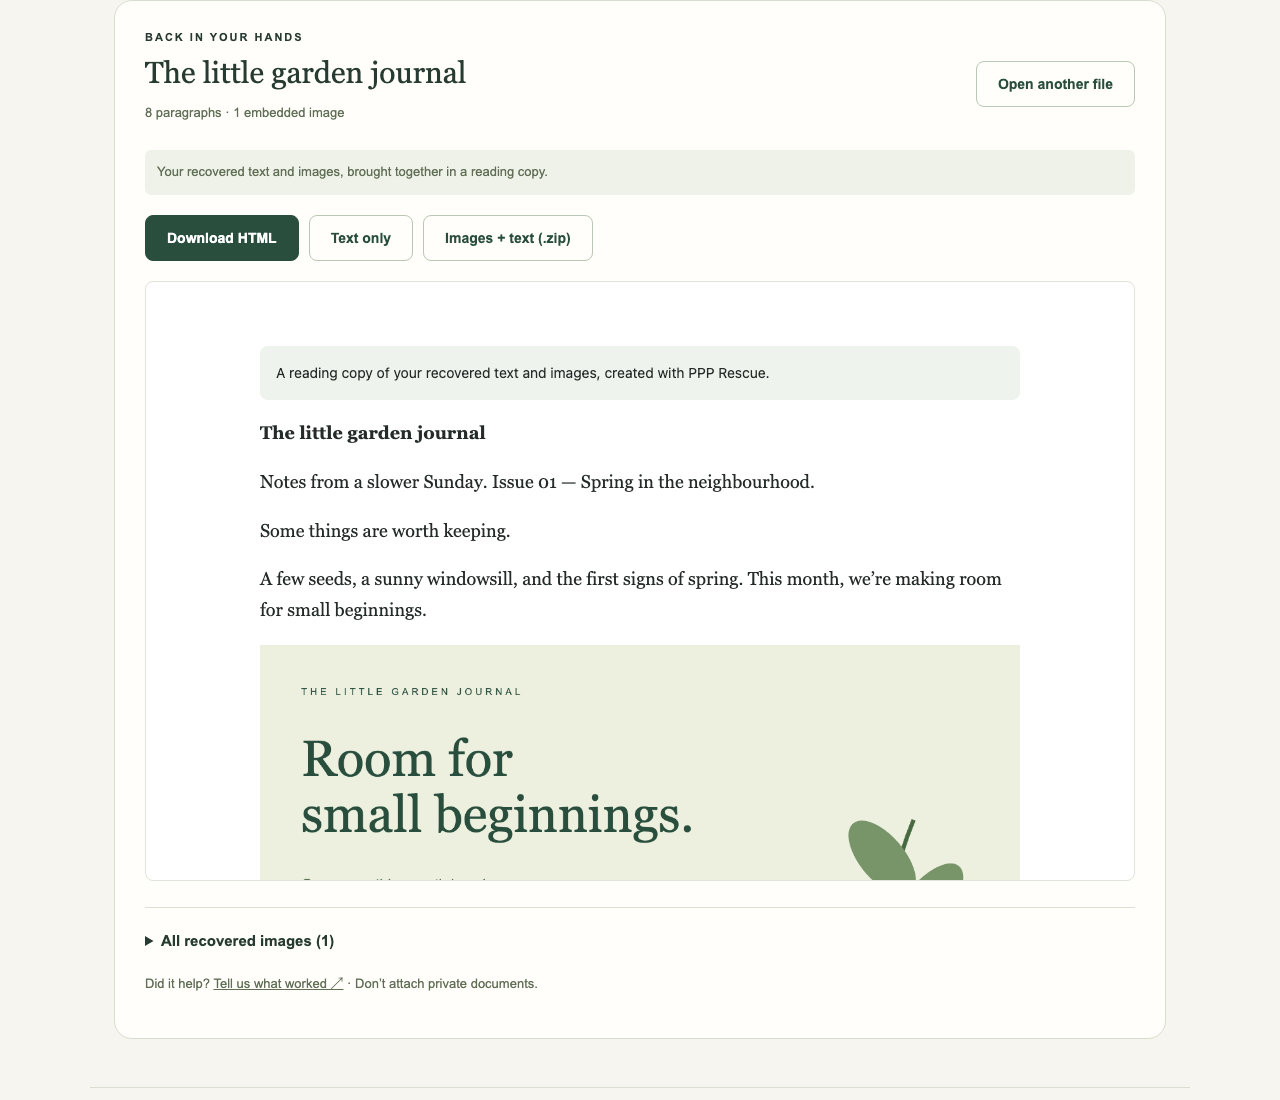
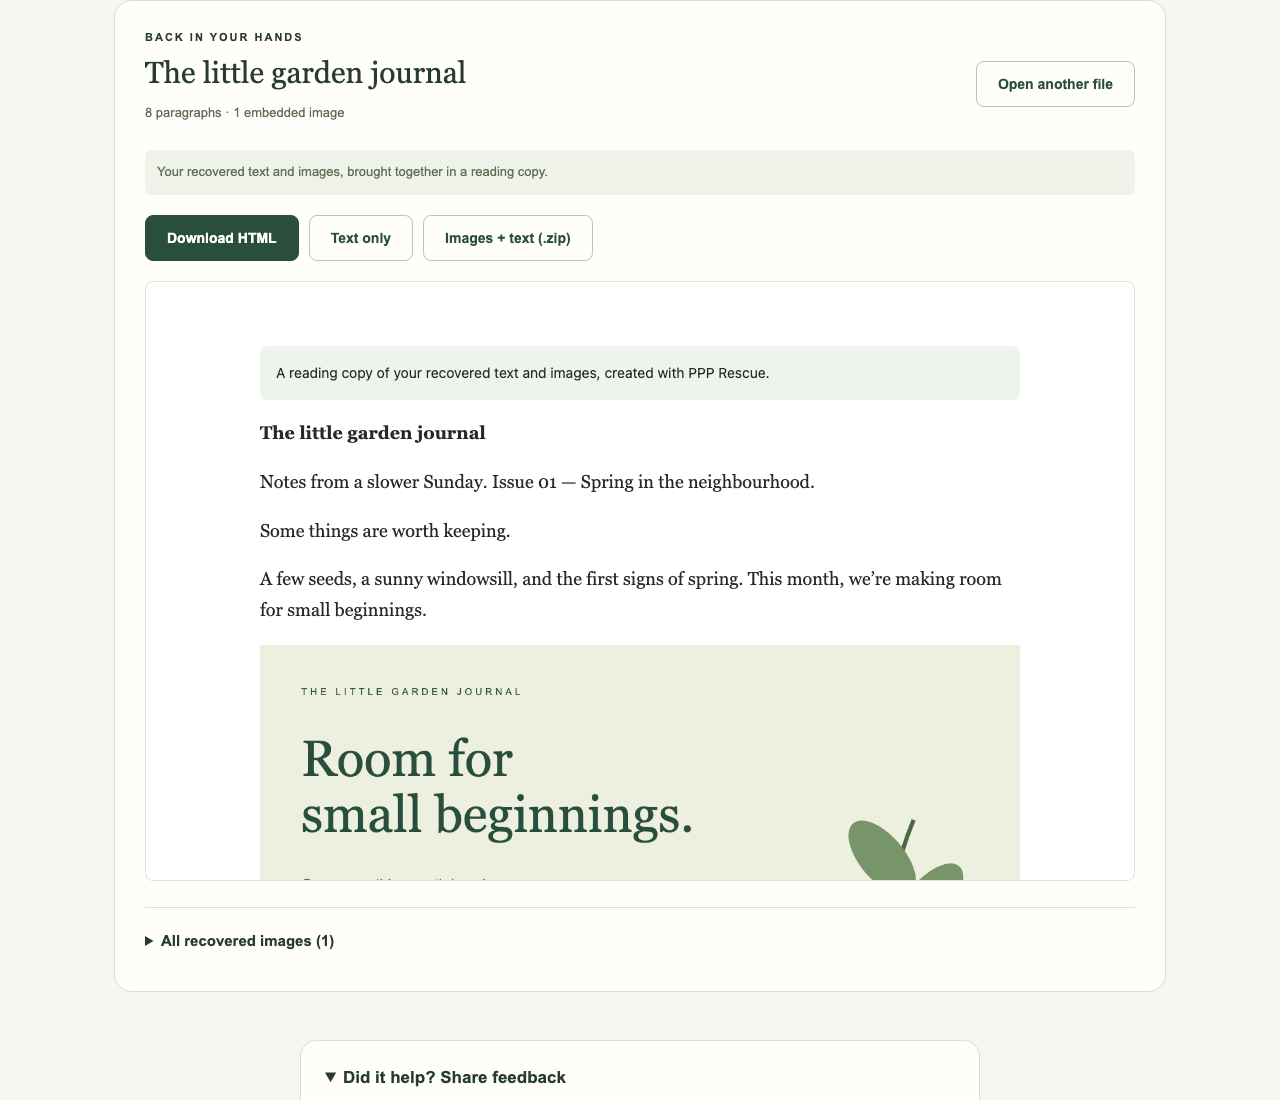
Add private, account-free feedback delivered by email

Changed region(s): [[0.25, 0.9582, 0.4375, 0.9891], [0.1562, 0.8655, 0.2188, 0.8964], [0.3438, 0.8655, 0.375, 0.8964]]

diff --git a/index.html b/index.html
@@ -5,13 +5,22 @@
 <div class="tool" id="drop"><div class="file-icon" aria-hidden="true">.ppp</div><h2>Let’s open that document.</h2><p>Drop a PagePlus file here, or choose one below.</p><label class="primary" for="file">Choose .ppp file <span aria-hidden="true">↗</span></label><input type="file" id="file" accept=".ppp" aria-label="Choose a PagePlus file"><button class="demo" id="demo">Just looking? Try the demo →</button><div class="privacy">Free · No uploads · No account</div></div>
 <p class="compat">Open a file. Rediscover your work. Keep what matters.</p><div class="processing"><progress id="progress" aria-label="Processing document" hidden></progress><button id="cancel" class="secondary" hidden>Cancel</button></div><p id="status" tabindex="-1" role="status" aria-live="polite"></p>
 </section>
-<section id="result" hidden aria-labelledby="result-title"><div class="result-head"><div><div class="eyebrow">BACK IN YOUR HANDS</div><h2 id="result-title" tabindex="-1">Your recovered document</h2><p id="counts"></p></div><button id="reset" class="secondary">Open another file</button></div><p class="notice">Your recovered text and images, brought together in a reading copy.</p><ul id="warnings"></ul><div class="downloads"><button class="primary" id="html">Download HTML</button><button class="secondary" id="txt">Text only</button><button class="secondary" id="zip">Images + text (.zip)</button></div><iframe id="preview" title="Recovered document preview" sandbox=""></iframe><details id="gallery" class="gallery" hidden><summary id="gallery-title">Recovered images</summary><div id="gallery-items" class="image-grid"></div></details><p class="feedback">Did it help? <a href="https://github.com/Dryxio/ppp-rescue/issues/new?template=feedback.yml">Tell us what worked ↗</a> · Don’t attach private documents.</p></section>
+<section id="result" hidden aria-labelledby="result-title"><div class="result-head"><div><div class="eyebrow">BACK IN YOUR HANDS</div><h2 id="result-title" tabindex="-1">Your recovered document</h2><p id="counts"></p></div><button id="reset" class="secondary">Open another file</button></div><p class="notice">Your recovered text and images, brought together in a reading copy.</p><ul id="warnings"></ul><div class="downloads"><button class="primary" id="html">Download HTML</button><button class="secondary" id="txt">Text only</button><button class="secondary" id="zip">Images + text (.zip)</button></div><iframe id="preview" title="Recovered document preview" sandbox=""></iframe><details id="gallery" class="gallery" hidden><summary id="gallery-title">Recovered images</summary><div id="gallery-items" class="image-grid"></div></details></section>
+<details id="feedback" class="feedback-panel"><summary>Did it help? Share feedback</summary>
+<form id="feedback-form">
+<fieldset><legend>Did you recover what you needed?</legend><div class="feedback-options"><label><input type="radio" name="rating" value="Yes" required> Yes</label><label><input type="radio" name="rating" value="Partly"> Partly</label><label><input type="radio" name="rating" value="Not yet"> Not yet</label></div></fieldset>
+<label for="feedback-message">Anything to add? <span>(optional)</span></label><textarea id="feedback-message" name="message" rows="3" maxlength="3000" placeholder="What worked, or what could be better?"></textarea>
+<label for="feedback-email">Email for a reply <span>(optional)</span></label><input id="feedback-email" name="email" type="email" maxlength="254" autocomplete="email" placeholder="you@example.com">
+<div class="feedback-trap" aria-hidden="true"><label for="feedback-website">Leave this empty</label><input id="feedback-website" type="text" name="website" tabindex="-1" autocomplete="off"></div>
+<p class="feedback-privacy">Only your answers are sent. Your file and its contents stay on your device.</p><button class="primary" id="feedback-send" type="submit">Send feedback</button>
+</form><p id="feedback-status" role="status" aria-live="polite" tabindex="-1"></p><p class="feedback-meta">Prefer email? <a href="mailto:mrdryxio@gmail.com?subject=RecoverPPP%20feedback">mrdryxio@gmail.com</a> · Delivered by <a href="https://formsubmit.co/privacy.pdf" target="_blank" rel="noopener noreferrer">FormSubmit</a>. Please don’t include private document content.</p>
+</details>
 <section class="steps" aria-label="How it works"><article><span>01 / OPEN</span><h2>Find your .ppp file.</h2><p>Newsletters, brochures, family histories. Start with the file you already have.</p></article><article><span>02 / RECOVER</span><h2>See what’s inside.</h2><p>Read your recovered text and browse the image gallery.</p></article><article><span>03 / KEEP</span><h2>Make it yours again.</h2><p>Save a reading copy, copy the text or download images for your next project.</p></article></section>
 <section class="faq"><div><div class="eyebrow">A FEW GOOD QUESTIONS</div><h2>Old format.<br>Simple answers.</h2></div><div>
 <details><summary>What is a .ppp file?</summary><p>PagePlus saves publications such as newsletters, brochures and books as .ppp files.</p></details>
 <details><summary>Can I open PagePlus files without PagePlus?</summary><p>Yes. Choose your file to recover its text and images directly in your browser. No PagePlus installation needed. See <a href="https://github.com/Dryxio/ppp-rescue/blob/main/docs/compatibility.md">file compatibility</a>.</p></details>
 <details><summary>Can I convert PPP to PDF or Affinity Publisher?</summary><p>Download HTML and choose Print → Save as PDF in your browser for a reading copy. You can also reuse the recovered text and images in Affinity Publisher. Exports do not preserve the original page layout or create editable Affinity documents.</p></details>
-<details><summary>Does my document leave my computer?</summary><p>No. Extraction happens in your browser. We do not upload or store your document, and there are no analytics or advertising scripts. Our hosting provider receives normal website request information when you visit.</p></details>
+<details><summary>Does my document leave my computer?</summary><p>No. Extraction happens in your browser. We do not upload or store your document, and there are no analytics or advertising scripts. Our hosting provider receives normal website request information when you visit. If you choose to send feedback, only the answers you enter are sent through FormSubmit to our inbox; your document is never attached.</p></details>
 <details><summary>Which PagePlus files can I open?</summary><p>PPP Rescue reads ZIP/XML publications, tested with PagePlus X7–X9. When the tool detects missing content, a note appears with your result. <a href="https://github.com/Dryxio/ppp-rescue/blob/main/docs/compatibility.md">View compatibility details ↗</a></p></details>
 <details><summary>Is this free?</summary><p>Yes. PPP Rescue is a free, open-source community project, released under the MIT license. No signup, subscriptions or AI services.</p></details>
-</div></section></main><footer><a class="brand" href="/">PPP Rescue</a><span>Made to give old work a new life.</span><a href="https://github.com/Dryxio/ppp-rescue">Code & feedback ↗</a><p>Independent project. Not affiliated with Serif or Affinity.</p></footer><script type="module" src="/src/main.js"></script></body></html>
+</div></section></main><footer><a class="brand" href="/">PPP Rescue</a><span>Made to give old work a new life.</span><a href="#feedback">Feedback</a><a href="https://github.com/Dryxio/ppp-rescue">Source code ↗</a><p>Independent project. Not affiliated with Serif or Affinity.</p></footer><script type="module" src="/src/main.js"></script></body></html>

diff --git a/tests/feedback.spec.js b/tests/feedback.spec.js
@@ -1,0 +1,18 @@
+import {test,expect} from '@playwright/test';
+import {zipSync,strToU8} from 'fflate';
+const endpoint='https://formsubmit.co/ajax/mrdryxio@gmail.com';
+test('feedback sends explicit answers only, never recovery data',async({page})=>{
+ const sent=[];await page.route(endpoint,async route=>{sent.push(route.request().postDataJSON());await route.fulfill({json:{success:'true'}});});
+ await page.goto('/');const privateText='PRIVATE_DOCUMENT_SENTINEL_471';const file=zipSync({'summary.xml':strToU8('<x><Summary Title="PRIVATE_TITLE_471"/></x>'),'story/1.xml':strToU8('<x><p>'+privateText+'</p></x>')});await page.locator('#file').setInputFiles({name:'PRIVATE_FILENAME_471.ppp',mimeType:'application/octet-stream',buffer:Buffer.from(file)});await expect(page.locator('#result')).toBeVisible();expect(sent).toHaveLength(0);
+ await page.getByLabel('Partly',{exact:true}).check();await page.locator('#feedback-message').fill('The text helped.');await page.locator('#feedback-email').fill('reader@example.com');await page.locator('#feedback-send').click();await expect(page.locator('#feedback-status')).toContainText('Thank you!');
+ expect(sent).toEqual([{rating:'Partly',message:'The text helped.',email:'reader@example.com',_subject:'RecoverPPP feedback',_template:'table',_url:'https://recoverppp.com/',_honey:''}]);expect(JSON.stringify(sent)).not.toContain('PRIVATE_');await expect(page.locator('#feedback-form')).toBeHidden();await expect(page.locator('#feedback-status')).toBeFocused();await expect(page.frameLocator('#preview').locator('p')).toHaveText(privateText);
+});
+test('rating alone works without an email, message or account',async({page})=>{
+ let payload;await page.route(endpoint,async route=>{payload=route.request().postDataJSON();await route.fulfill({json:{success:true}});});await page.goto('/#feedback');await expect(page.locator('#feedback-send')).toBeVisible();await page.getByLabel('Yes',{exact:true}).check();await page.locator('#feedback-send').click();await expect(page.locator('#feedback-status')).toContainText('Thank you!');expect(payload.rating).toBe('Yes');expect(payload.message).toBe('');expect(payload).not.toHaveProperty('email');
+});
+test('failed submissions retain the message and can be retried',async({page})=>{
+ let tries=0;await page.route(endpoint,async route=>{tries++;await route.fulfill({status:tries===1?503:200,json:tries===1?{success:false}:{success:'true'}});});await page.goto('/#feedback');await page.getByLabel('Not yet',{exact:true}).check();await page.locator('#feedback-message').fill('Please help.');await page.locator('#feedback-send').click();await expect(page.locator('#feedback-status')).toContainText('couldn’t confirm delivery');await expect(page.locator('#feedback-message')).toHaveValue('Please help.');await expect(page.locator('#feedback-send')).toBeEnabled();await page.locator('#feedback-send').click();await expect(page.locator('#feedback-status')).toContainText('Thank you!');expect(tries).toBe(2);
+});
+test('feedback remains usable on narrow screens and requires a rating',async({page})=>{
+ let sent=false;await page.route(endpoint,async route=>{sent=true;await route.fulfill({json:{success:true}});});await page.setViewportSize({width:375,height:812});await page.goto('/#feedback');await page.locator('#feedback-send').click();expect(sent).toBe(false);expect(await page.evaluate(()=>document.documentElement.scrollWidth<=innerWidth)).toBe(true);await expect(page.locator('#feedback-send')).toBeEnabled();
+});

diff --git a/src/main.js b/src/main.js
@@ -1,3 +1,4 @@
+import {showFeedback} from './feedback.js';
 import {imageType} from './images.js';
 const $=id=>document.getElementById(id);
 let current=null,worker=null,timer=null,busy=false,imageUrls=[],generation=0;
@@ -7,7 +8,7 @@ function status(text,error=false){$('status').textContent=text;$('status').class
 function clearImages(){for(const url of imageUrls)URL.revokeObjectURL(url);imageUrls=[];$('gallery-items').replaceChildren();$('gallery').hidden=true;$('gallery').open=false;}
 function stop(){generation++;worker?.terminate();worker=null;clearTimeout(timer);timer=null;setBusy(false);}
 function clear(){clearImages();current=null;$('result').hidden=true;$('preview').srcdoc='';$('file').value='';}
-function fail(message){stop();clear();status(message,true);}
+function fail(message){stop();clear();status(message,true);showFeedback();}
 function save(bytes,name,type){const url=URL.createObjectURL(new Blob([bytes],{type}));const a=document.createElement('a');a.href=url;a.download=name;document.body.append(a);a.click();a.remove();setTimeout(()=>URL.revokeObjectURL(url),10000);}
 function warnings(){$('warnings').replaceChildren(...current.warnings.map(w=>{const li=document.createElement('li');li.textContent=w;return li;}));}
 function showImages(){clearImages();const entries=Object.entries(current.assets);$('gallery').hidden=!entries.length;$('gallery-title').textContent=`All recovered images (${entries.length})`;
@@ -19,7 +20,7 @@ function open(file){if(!file||busy)return;stop();clear();if(file.size>30e6){stat
   if(data.type==='progress'){status(data.text);return;}
   clearTimeout(timer);setBusy(false);
   if(data.type==='error'){fail(data.message);return;}
-  if(data.type==='opened'){current=data.result;$('result-title').textContent=current.title;$('counts').textContent=`${current.paragraphCount} paragraphs · ${Object.keys(current.assets).length} embedded image${Object.keys(current.assets).length===1?'':'s'}`;warnings();$('result').hidden=false;const preview=$('preview').cloneNode(false);preview.srcdoc=data.preview;$('preview').replaceWith(preview);showImages();status('Recovered locally. Review your document below.');$('result-title').focus();$('result').scrollIntoView({block:'start'});}
+  if(data.type==='opened'){current=data.result;$('result-title').textContent=current.title;$('counts').textContent=`${current.paragraphCount} paragraphs · ${Object.keys(current.assets).length} embedded image${Object.keys(current.assets).length===1?'':'s'}`;warnings();$('result').hidden=false;const preview=$('preview').cloneNode(false);preview.srcdoc=data.preview;$('preview').replaceWith(preview);showImages();status('Recovered locally. Review your document below.');showFeedback();$('result-title').focus();$('result').scrollIntoView({block:'start'});}
   if(data.type==='exported'){save(data.bytes,data.name,data.mime);status('Your download is ready.');}
  };armTimeout();worker.postMessage({type:'open',file});}catch{fail('This browser could not start local processing. Please try a current browser.');}
 }

diff --git a/src/style.css b/src/style.css
@@ -2,3 +2,5 @@
 .gallery{margin-top:22px;border-top:1px solid #dce0d4;padding-top:12px}.gallery summary{cursor:pointer;padding:12px 0;font-size:15px;font-weight:600}.image-grid{display:grid;grid-template-columns:repeat(auto-fill,minmax(150px,1fr));gap:14px;margin-top:14px}.image-grid a{display:flex;flex-direction:column;gap:9px;border:1px solid #dce0d4;border-radius:8px;padding:12px;font-size:12px;overflow-wrap:anywhere;text-decoration:none}.image-grid a:hover{background:#eff2e8}.image-grid img{width:100%;height:120px;object-fit:contain;background:white}.image-grid span{margin-top:auto}
 
 .processing{display:flex;justify-content:center;align-items:center;gap:16px;margin-top:14px}progress{accent-color:#294e3d;width:200px}#result-title:focus,#status:focus{outline:none}.tool:has(input:focus-visible){outline:3px solid #a5672a;outline-offset:5px}
+
+.feedback-panel{max-width:680px;margin:0 auto 48px;padding:24px;border:1px solid #d6dfcd;border-radius:16px;background:#fffefa}.feedback-panel summary{font-size:17px;font-weight:600;cursor:pointer;min-height:44px;line-height:1.5;display:list-item}.feedback-panel form{margin-top:16px}.feedback-panel fieldset{border:0;padding:0;margin:0 0 20px}.feedback-panel legend{font-weight:600;margin-bottom:12px}.feedback-options{display:flex;gap:10px;flex-wrap:wrap}.feedback-options label{display:flex;align-items:center;gap:8px;min-height:44px;padding:10px;border:1px solid #bbc7b5;border-radius:8px;cursor:pointer}.feedback-options label:has(:checked){background:#e9eee4;border-color:#294e3d}.feedback-options input{accent-color:#294e3d}.feedback-panel form>label{display:block;margin:16px 0 8px;font-size:14px;font-weight:600}.feedback-panel label span{font-weight:400;color:#606e56}.feedback-panel textarea,.feedback-panel input[type=email]{display:block;width:100%;max-width:100%;padding:12px;border:1px solid #bbc7b5;border-radius:8px;background:white;color:#273b32;font:16px/1.5 Arial,sans-serif}.feedback-panel textarea{resize:vertical;min-height:96px}.feedback-panel input:focus-visible,.feedback-panel textarea:focus-visible{outline:3px solid #a5672a;outline-offset:3px}.feedback-privacy,.feedback-meta,#feedback-status{font-size:13px;line-height:1.6;color:#506347}.feedback-meta{margin-bottom:0;overflow-wrap:anywhere}.feedback-trap{position:absolute;width:1px;height:1px;overflow:hidden;clip-path:inset(50%)}#feedback-status:empty{display:none}@media(max-width:720px){.feedback-panel{margin:0 14px 32px;padding:20px}}

diff --git a/src/feedback.js b/src/feedback.js
@@ -1,0 +1,31 @@
+const form=document.getElementById('feedback-form');
+const status=document.getElementById('feedback-status');
+const button=document.getElementById('feedback-send');
+let sending=false;
+export function showFeedback(){document.getElementById('feedback').open=true;}
+form.addEventListener('submit',async event=>{
+ event.preventDefault();
+ if(sending||!form.reportValidity())return;
+ // Explicit fields only: this module never receives a file or recovery result.
+ const rating=form.querySelector('input[name="rating"]:checked')?.value;
+ const message=document.getElementById('feedback-message').value.trim();
+ const email=document.getElementById('feedback-email').value.trim();
+ const honey=document.getElementById('feedback-website').value;
+ if(honey)return;
+ sending=true;button.disabled=true;button.textContent='Sending…';status.textContent='';
+ const controller=new AbortController();const timeout=setTimeout(()=>controller.abort(),20000);
+ try{
+  const response=await fetch('https://formsubmit.co/ajax/mrdryxio@gmail.com',{
+   method:'POST',mode:'cors',credentials:'omit',referrerPolicy:'no-referrer',signal:controller.signal,
+   headers:{'Content-Type':'application/json','Accept':'application/json'},
+   body:JSON.stringify({rating,message,...(email?{email}:{}),_subject:'RecoverPPP feedback',_template:'table',_url:'https://recoverppp.com/',_honey:honey})
+  });
+  const result=await response.json();
+  if(!response.ok||!(result.success===true||result.success==='true'))throw Error('Not accepted');
+  form.hidden=true;status.textContent='Thank you! Your feedback has been sent.';status.focus();
+ }catch{
+  status.textContent='We couldn’t confirm delivery. Your message is still here: try again, or use the email link below.';status.focus();
+ }finally{clearTimeout(timeout);sending=false;button.disabled=false;button.textContent='Send feedback';}
+});
+document.querySelectorAll('a[href="#feedback"]').forEach(link=>link.addEventListener('click',showFeedback));
+if(location.hash==='#feedback')showFeedback();

diff --git a/docs/compatibility.md b/docs/compatibility.md
@@ -28,6 +28,6 @@ Processing runs in a cancellable worker with a 30-second timeout. If a file cann
 
 ## Privacy and feedback
 
-Documents stay in your browser. No analytics or AI services are used. The host receives ordinary website requests.
+Documents stay in your browser. No analytics or AI services are used. The host receives ordinary website requests. If you submit feedback, your selected answer, optional message and optional reply email are sent through FormSubmit to mrdryxio@gmail.com. No document, filename, extracted text, images or recovery diagnostics are included automatically. FormSubmit receives connection information and retains submissions for 30 days; email copies remain in our inbox. You can email us to request deletion.
 
-[Report a problem](https://github.com/Dryxio/ppp-rescue/issues/new?template=feedback.yml) with your browser, PagePlus version and what you expected to recover. Issues are public: do not attach private documents.
+[Send feedback](https://recoverppp.com/#feedback) without an account, or email [mrdryxio@gmail.com](mailto:mrdryxio@gmail.com). Please do not include private document content.

diff --git a/README.md b/README.md
@@ -2,7 +2,7 @@
 
 Recover your PagePlus text and images. Ready to read, save and reuse.
 
-**[Open the tool →](https://recoverppp.com/)** · [File compatibility](docs/compatibility.md) · [Feedback](https://github.com/Dryxio/ppp-rescue/issues/new?template=feedback.yml)
+**[Open the tool →](https://recoverppp.com/)** · [File compatibility](docs/compatibility.md) · [Feedback](https://recoverppp.com/#feedback)
 
 Free and open source. No account, installation or document uploads.
 
